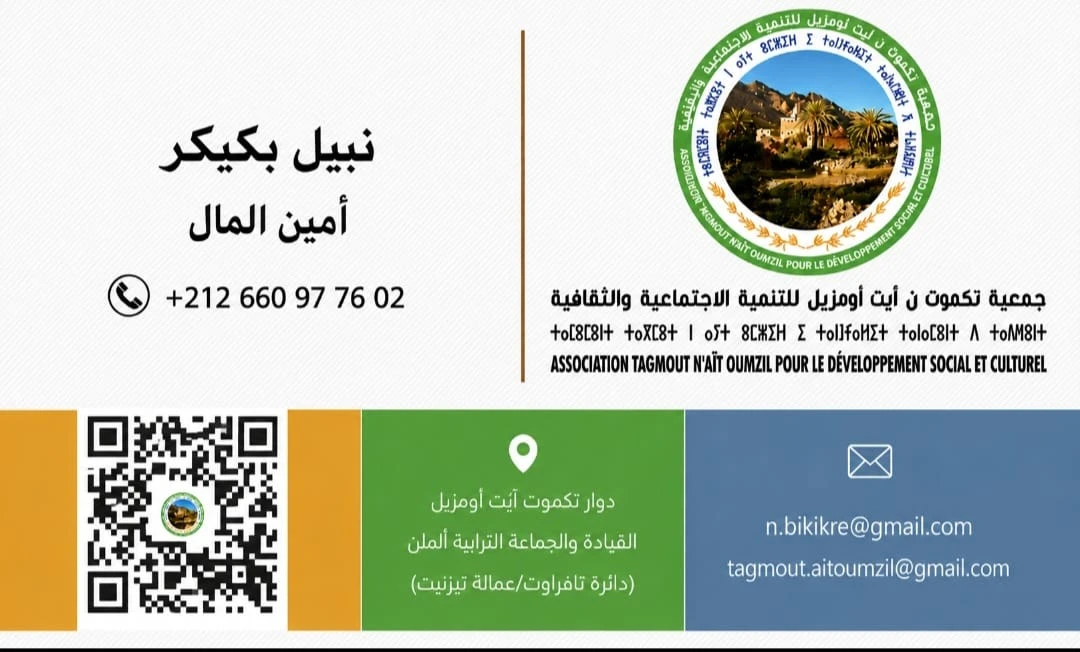
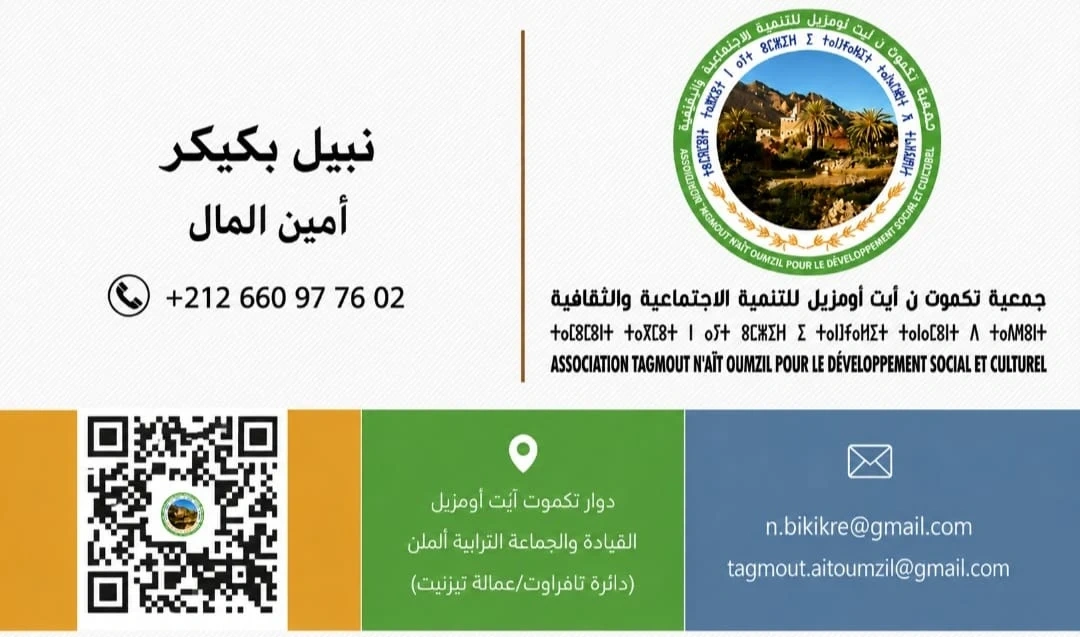
fix: crop bottom black line on Nabil Arabic business card, add card cache-busting

diff --git a/contact.html b/contact.html
@@ -100,11 +100,11 @@
                     <div class="visite-cards">
                         <div class="visite-card-wrapper">
                             <span class="card-lang">Version Française</span>
-                            <img src="images/cartes/fr_mohamed_bikikre.webp" alt="Carte de visite Président (FR)" class="visite-img">
+                            <img src="images/cartes/fr_mohamed_bikikre.webp?v=1.1" alt="Carte de visite Président (FR)" class="visite-img">
                         </div>
                         <div class="visite-card-wrapper">
                             <span class="card-lang">Version Arabe</span>
-                            <img src="images/cartes/ar_mohamed_bikikre.webp" alt="Carte de visite Président (AR)" class="visite-img">
+                            <img src="images/cartes/ar_mohamed_bikikre.webp?v=1.1" alt="Carte de visite Président (AR)" class="visite-img">
                         </div>
                     </div>
                 </div>
@@ -115,11 +115,11 @@
                     <div class="visite-cards">
                         <div class="visite-card-wrapper">
                             <span class="card-lang">Version Française</span>
-                            <img src="images/cartes/fr_mohamed_daoudi.webp" alt="Carte de visite Secrétaire Général (FR)" class="visite-img">
+                            <img src="images/cartes/fr_mohamed_daoudi.webp?v=1.1" alt="Carte de visite Secrétaire Général (FR)" class="visite-img">
                         </div>
                         <div class="visite-card-wrapper">
                             <span class="card-lang">Version Arabe</span>
-                            <img src="images/cartes/ar_mohamed_daoudi.webp" alt="Carte de visite Secrétaire Général (AR)" class="visite-img">
+                            <img src="images/cartes/ar_mohamed_daoudi.webp?v=1.1" alt="Carte de visite Secrétaire Général (AR)" class="visite-img">
                         </div>
                     </div>
                 </div>
@@ -130,11 +130,11 @@
                     <div class="visite-cards">
                         <div class="visite-card-wrapper">
                             <span class="card-lang">Version Française</span>
-                            <img src="images/cartes/fr_nabil_bikikre.webp" alt="Carte de visite Trésorier (FR)" class="visite-img">
+                            <img src="images/cartes/fr_nabil_bikikre.webp?v=1.1" alt="Carte de visite Trésorier (FR)" class="visite-img">
                         </div>
                         <div class="visite-card-wrapper">
                             <span class="card-lang">Version Arabe</span>
-                            <img src="images/cartes/ar_nabil_bikikre.webp" alt="Carte de visite Trésorier (AR)" class="visite-img">
+                            <img src="images/cartes/ar_nabil_bikikre.webp?v=1.1" alt="Carte de visite Trésorier (AR)" class="visite-img">
                         </div>
                     </div>
                 </div>
